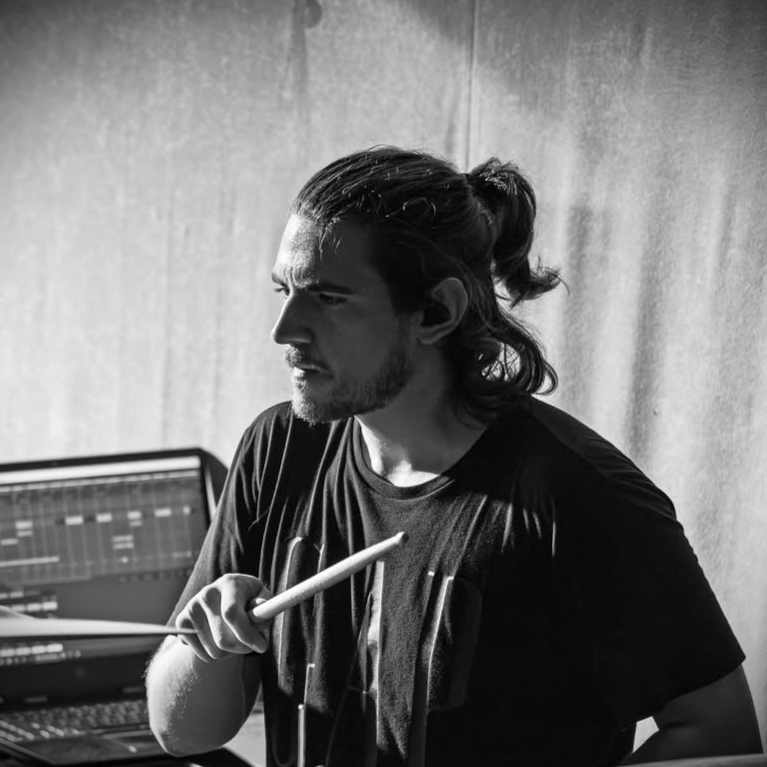
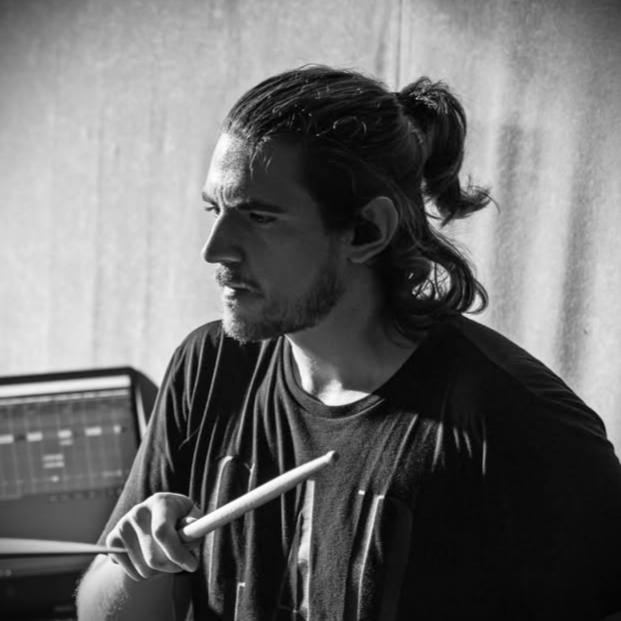
Initial Commit

diff --git a/_sass/custom.scss b/_sass/custom.scss
@@ -1,0 +1,5 @@
+/* Increase the size of the sidebar avatar */
+.author__avatar img {
+  max-width: 160px; /* Change this number to make it bigger or smaller */
+  width: 100%;      /* Ensures it still scales down properly on mobile phones */
+}